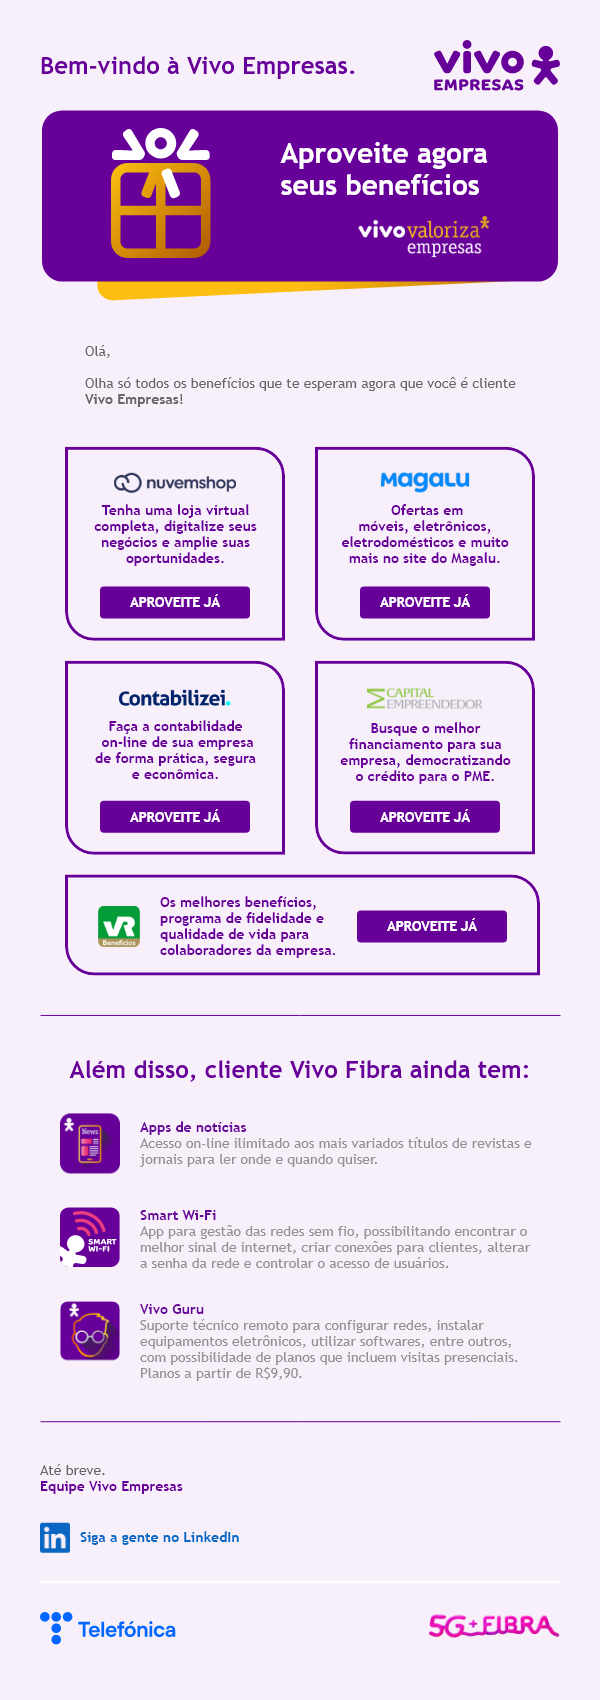
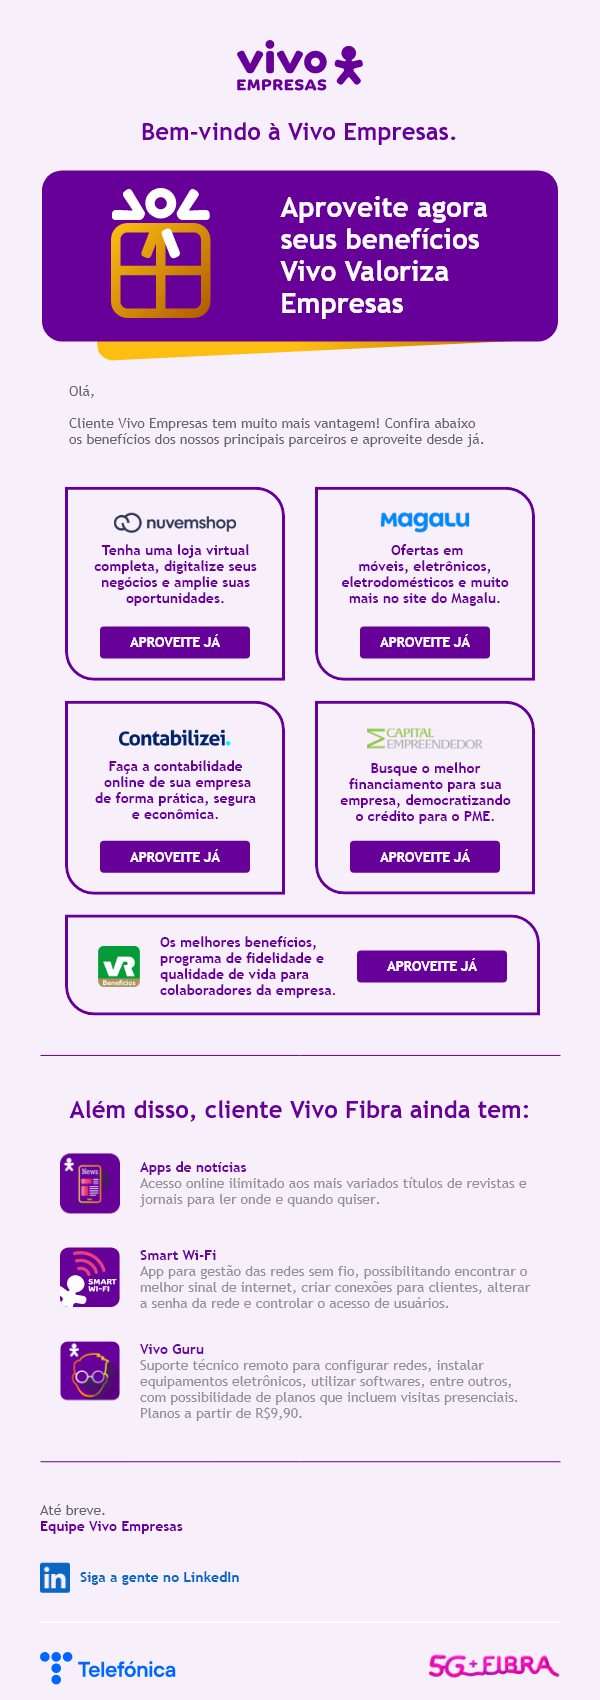
update 9811

diff --git a/2021/Vivo/153_247_9811/9811_novos_parceiros_valoriza_hospedadas.html b/2021/Vivo/153_247_9811/9811_novos_parceiros_valoriza_hospedadas.html
@@ -86,7 +86,7 @@
   <table width="600" class="tableWidth" border="0" cellpadding="0" cellspacing="0" align="center" bgcolor="#F7F0FA">
     <tr>
       <td>
-        <img border="0" width="600" style="display: block;" src="https://www.vivo.com.br/content/dam/crm/dezembro21/regua_welcome_fixa_novos_parceiros_valoriza/banner.png" alt="Bem-vindo à Vivo Empresas. Aproveite agora seus benefícios" class="wd100">
+        <img border="0" width="600" style="display: block;" src="https://www.vivo.com.br/content/dam/crm/janeiro22/pos_venda_renova_zflip3/banner.png" alt="Bem-vindo à Vivo Empresas. Aproveite agora seus benefícios Vivo Valoriza Empresas" class="wd100">
       </td>
     </tr>
     <tr>
@@ -98,8 +98,7 @@
                 Olá,
                 <br>
                 <br>
-                Olha só todos os benefícios que te esperam agora que você é cliente
-                <b>Vivo Empresas!</b>
+                Cliente Vivo Empresas tem muito mais vantagem! Confira abaixo os benefícios dos nossos principais parceiros e aproveite desde já.
               </font>
             </td>
           </tr>
@@ -126,7 +125,7 @@
                                       <table border="0" cellpadding="0" cellspacing="0" width="100%">
                                         <tr>
                                           <td align="center">
-                                            <img border="0" width="123" style="display: block;" src="https://www.vivo.com.br/content/dam/crm/dezembro21/regua_welcome_fixa_novos_parceiros_valoriza/nuvem.png" alt="nuvemshop">
+                                            <img border="0" width="123" style="display: block;" src="https://www.vivo.com.br/content/dam/crm/janeiro22/pos_venda_renova_zflip3/nuvem.png" alt="nuvemshop">
                                           </td>
                                         </tr>
                                         <tr>
@@ -145,7 +144,7 @@
                                         <tr>
                                           <td align="center">
                                             <a href="https://app.adjust.com/55exio7_wqkw8qu?campaign=VVE&adgroup=Nuvemshop&creative=site&redirect=https%3A%2F%2Fwww.nuvemshop.com.br%2Fvivoempresas%3Futm_source%3Dparcerias%26utm_medium%3Dapp%26utm_campaign%3Dvivoempresas" target="_blank">
-                                              <img border="0" width="150" style="display: block;" src="https://www.vivo.com.br/content/dam/crm/dezembro21/regua_welcome_fixa_novos_parceiros_valoriza/btn_aproveite_ja.png" alt="">
+                                              <img border="0" width="150" style="display: block;" src="https://www.vivo.com.br/content/dam/crm/janeiro22/pos_venda_renova_zflip3/btn_aproveite_ja.png" alt="">
                                             </a>
                                           </td>
                                         </tr>
@@ -170,7 +169,7 @@
                                       <table border="0" cellpadding="0" cellspacing="0" width="100%">
                                         <tr>
                                           <td align="center">
-                                            <img border="0" width="89" style="display: block;" src="https://www.vivo.com.br/content/dam/crm/dezembro21/regua_welcome_fixa_novos_parceiros_valoriza/magalu.png" alt="magalu">
+                                            <img border="0" width="89" style="display: block;" src="https://www.vivo.com.br/content/dam/crm/janeiro22/pos_venda_renova_zflip3/magalu.png" alt="magalu">
                                           </td>
                                         </tr>
                                         <tr>
@@ -191,7 +190,7 @@
                                         <tr>
                                           <td align="center">
                                             <a href="https://app.adjust.com/3z6n8yz_6fwsxru?campaign=VVE&adgroup=Magalu&creative=site&redirect=https%3A%2F%2Fclube.magazineluiza.com.br%2F%3Fn%3Dvivovalorizaempresas" target="_blank">
-                                              <img border="0" width="150" style="display: block;" src="https://www.vivo.com.br/content/dam/crm/dezembro21/regua_welcome_fixa_novos_parceiros_valoriza/btn_aproveite_ja.png" alt="">
+                                              <img border="0" width="150" style="display: block;" src="https://www.vivo.com.br/content/dam/crm/janeiro22/pos_venda_renova_zflip3/btn_aproveite_ja.png" alt="">
                                             </a>
                                           </td>
                                         </tr>
@@ -226,7 +225,7 @@
                                       <table border="0" cellpadding="0" cellspacing="0" width="100%">
                                         <tr>
                                           <td align="center">
-                                            <img border="0" width="112" style="display: block;" src="https://www.vivo.com.br/content/dam/crm/dezembro21/regua_welcome_fixa_novos_parceiros_valoriza/contabilizei.png" alt="contabilizei">
+                                            <img border="0" width="112" style="display: block;" src="https://www.vivo.com.br/content/dam/crm/janeiro22/pos_venda_renova_zflip3/contabilizei.png" alt="contabilizei">
                                           </td>
                                         </tr>
                                         <tr>
@@ -247,7 +246,7 @@
                                         <tr>
                                           <td align="center">
                                             <a href="https://app.adjust.com/s4lxvhp_3rre0gu?campaign=VVE&adgroup=Contabilizei&creative=site&redirect=https%3A%2F%2Fwww.contabilizei.com.br%2Fparcerias%2Fvivovalorizaempresas%2F" target="_blank">
-                                              <img border="0" width="150" style="display: block;" src="https://www.vivo.com.br/content/dam/crm/dezembro21/regua_welcome_fixa_novos_parceiros_valoriza/btn_aproveite_ja.png" alt="">
+                                              <img border="0" width="150" style="display: block;" src="https://www.vivo.com.br/content/dam/crm/janeiro22/pos_venda_renova_zflip3/btn_aproveite_ja.png" alt="">
                                             </a>
                                           </td>
                                         </tr>
@@ -272,7 +271,7 @@
                                       <table border="0" cellpadding="0" cellspacing="0" width="100%">
                                         <tr>
                                           <td align="center">
-                                            <img border="0" width="116" style="display: block;" src="https://www.vivo.com.br/content/dam/crm/dezembro21/regua_welcome_fixa_novos_parceiros_valoriza/capital.png" alt="Capital Empreendedor">
+                                            <img border="0" width="116" style="display: block;" src="https://www.vivo.com.br/content/dam/crm/janeiro22/pos_venda_renova_zflip3/capital.png" alt="Capital Empreendedor">
                                           </td>
                                         </tr>
                                         <tr>
@@ -291,7 +290,7 @@
                                         <tr>
                                           <td align="center">
                                             <a href="https://app.adjust.com/g97e38d_igugq6d?campaign=VVE&adgroup=Capital%20Empreendedor&creative=site&redirect=https%3A%2F%2Fwww.capitalempreendedor.com.br%2Fvivovalorizaempresas" target="_blank">
-                                              <img border="0" width="150" style="display: block;" src="https://www.vivo.com.br/content/dam/crm/dezembro21/regua_welcome_fixa_novos_parceiros_valoriza/btn_aproveite_ja.png" alt="">
+                                              <img border="0" width="150" style="display: block;" src="https://www.vivo.com.br/content/dam/crm/janeiro22/pos_venda_renova_zflip3/btn_aproveite_ja.png" alt="">
                                             </a>
                                           </td>
                                         </tr>
@@ -320,7 +319,7 @@
                           <table border="0" cellpadding="0" cellspacing="0" width="100%">
                             <tr>
                               <td align="left"  width="72" style="width: 42px;">
-                                <img border="0" width="42" style="display: block;" src="https://www.vivo.com.br/content/dam/crm/dezembro21/regua_welcome_fixa_novos_parceiros_valoriza/vr.png" alt="VR benefícios">
+                                <img border="0" width="42" style="display: block;" src="https://www.vivo.com.br/content/dam/crm/janeiro22/pos_venda_renova_zflip3/vr.png" alt="VR benefícios">
                               </td>
                               <td align="center">
                                 <table border="0" cellpadding="0" cellspacing="0" width="80%">
@@ -335,7 +334,7 @@
                               </td>
                               <td width="150" style="width: 150px;">
                                 <a href="https://app.adjust.com/f5r8t9h_zs0i2tj?campaign=VVE&adgroup=VR&creative=site&redirect=https%3A%2F%2Fvivovalorizaempresas.vr.com.br%2F%3Futm_source%3DVivo%26utm_medium%3Dcardsite" target="_blank">
-                                  <img border="0" width="150" style="display: block;" src="https://www.vivo.com.br/content/dam/crm/dezembro21/regua_welcome_fixa_novos_parceiros_valoriza/btn_aproveite_ja.png" alt="APROVEITE JÁ">
+                                  <img border="0" width="150" style="display: block;" src="https://www.vivo.com.br/content/dam/crm/janeiro22/pos_venda_renova_zflip3/btn_aproveite_ja.png" alt="APROVEITE JÁ">
                                 </a>
                               </td>
                             </tr>
@@ -378,7 +377,7 @@
                           <table border="0" cellpadding="0" cellspacing="0" width="90%">
                             <tr>
                               <td width="80" style="width: 80px;">
-                                <img border="0" valign="top" width="60" style="display: block;" src="https://www.vivo.com.br/content/dam/crm/dezembro21/regua_welcome_fixa_novos_parceiros_valoriza/icon_1.png" alt="">
+                                <img border="0" valign="top" width="60" style="display: block;" src="https://www.vivo.com.br/content/dam/crm/janeiro22/pos_venda_renova_zflip3/icon_1.png" alt="">
                               </td>
                               <td>
                                 <table border="0" cellpadding="0" cellspacing="0" width="100%">
@@ -410,7 +409,7 @@
                                 <table border="0" cellpadding="0" cellspacing="0" width="90%">
                                   <tr>
                                     <td valign="top" width="80" style="width: 80px;">
-                                      <img border="0" valign="top" width="60" style="display: block;" src="https://www.vivo.com.br/content/dam/crm/dezembro21/regua_welcome_fixa_novos_parceiros_valoriza/icon_2.png" alt="">
+                                      <img border="0" valign="top" width="60" style="display: block;" src="https://www.vivo.com.br/content/dam/crm/janeiro22/pos_venda_renova_zflip3/icon_2.png" alt="">
                                     </td>
                                     <td>
                                       <table border="0" cellpadding="0" cellspacing="0" width="98%">
@@ -445,7 +444,7 @@
                                <table border="0" cellpadding="0" cellspacing="0" width="90%">
                                  <tr>
                                    <td width="80" valign="top" style="width: 80px;">
-                                     <img border="0" valign="top" width="60" style="display: block;" src="https://www.vivo.com.br/content/dam/crm/dezembro21/regua_welcome_fixa_novos_parceiros_valoriza/icon_3.png" alt="">
+                                     <img border="0" valign="top" width="60" style="display: block;" src="https://www.vivo.com.br/content/dam/crm/janeiro22/pos_venda_renova_zflip3/icon_3.png" alt="">
                                    </td>
                                    <td>
                                      <table border="0" cellpadding="0" cellspacing="0" width="95%">
@@ -498,7 +497,7 @@
               <table border="0" cellpadding="0" cellspacing="0" width="50%" c>
                 <tr>
                   <td align="left">
-                    <img src="https://www.vivo.com.br/content/dam/crm/dezembro21/regua_welcome_fixa_novos_parceiros_valoriza/in.png" alt="" border="0" width="30" style="display: block;">
+                    <img src="https://www.vivo.com.br/content/dam/crm/janeiro22/pos_venda_renova_zflip3/in.png" alt="" border="0" width="30" style="display: block;">
                   </td>
                   <td align="left">
                     <table border="0" cellpadding="0" cellspacing="0">
@@ -529,10 +528,10 @@
                     <table border="0" cellpadding="0" cellspacing="0" width="100%">
                       <tr>
                         <td align="left">
-                          <img border="0" style="display: block;" width="120" src="https://www.vivo.com.br/content/dam/crm/dezembro21/regua_welcome_fixa_novos_parceiros_valoriza/telefonica.png" alt="telefonica">
+                          <img border="0" style="display: block;" width="120" src="https://www.vivo.com.br/content/dam/crm/janeiro22/pos_venda_renova_zflip3/telefonica.png" alt="telefonica">
                         </td>
                         <td align="right">
-                          <img border="0" style="display: block;" width="131" src="https://www.vivo.com.br/content/dam/crm/dezembro21/regua_welcome_fixa_novos_parceiros_valoriza/5g_fibra.png" alt="logo 5g + fibra">
+                          <img border="0" style="display: block;" width="131" src="https://www.vivo.com.br/content/dam/crm/janeiro22/pos_venda_renova_zflip3/5g_fibra.png" alt="logo 5g + fibra">
                         </td>
                       </tr>
                     </table>

diff --git a/2021/Vivo/153_247_9811/9811_novos_parceiros_valoriza.html b/2021/Vivo/153_247_9811/9811_novos_parceiros_valoriza.html
@@ -86,7 +86,7 @@
   <table width="600" class="tableWidth" border="0" cellpadding="0" cellspacing="0" align="center" bgcolor="#F7F0FA">
     <tr>
       <td>
-        <img border="0" width="600" style="display: block;" src="./imagens/banner.png" alt="Bem-vindo à Vivo Empresas. Aproveite agora seus benefícios" class="wd100">
+        <img border="0" width="600" style="display: block;" src="./imagens/banner.png" alt="Bem-vindo à Vivo Empresas. Aproveite agora seus benefícios Vivo Valoriza Empresas" class="wd100">
       </td>
     </tr>
     <tr>
@@ -98,8 +98,7 @@
                 Olá,
                 <br>
                 <br>
-                Olha só todos os benefícios que te esperam agora que você é cliente
-                <b>Vivo Empresas!</b>
+                Cliente Vivo Empresas tem muito mais vantagem! Confira abaixo os benefícios dos nossos principais parceiros e aproveite desde já.
               </font>
             </td>
           </tr>
